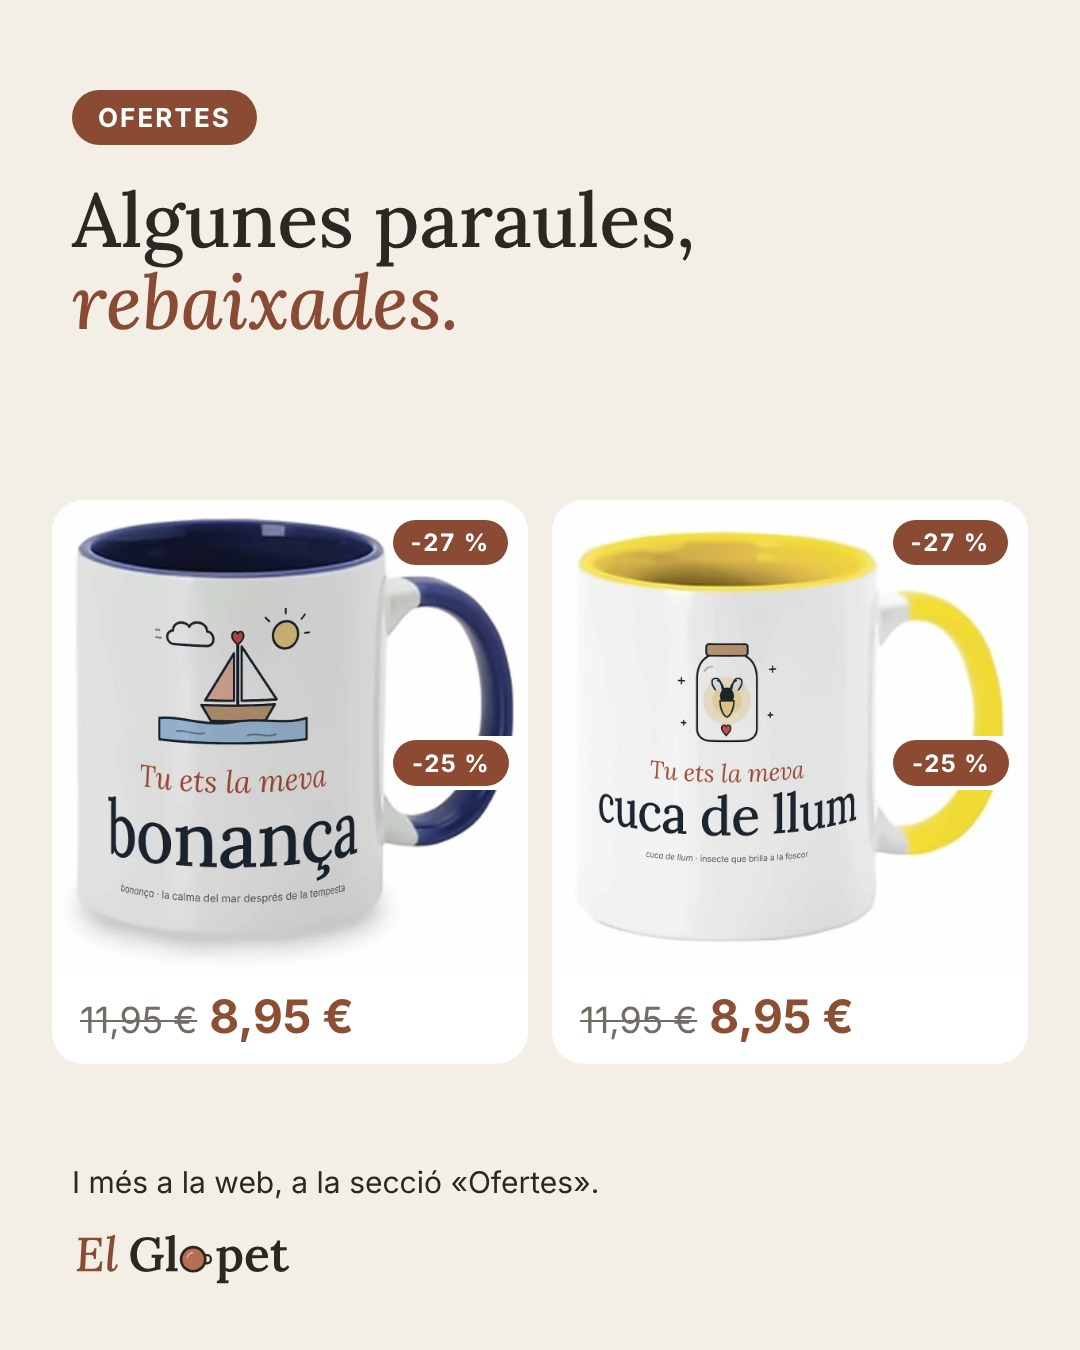
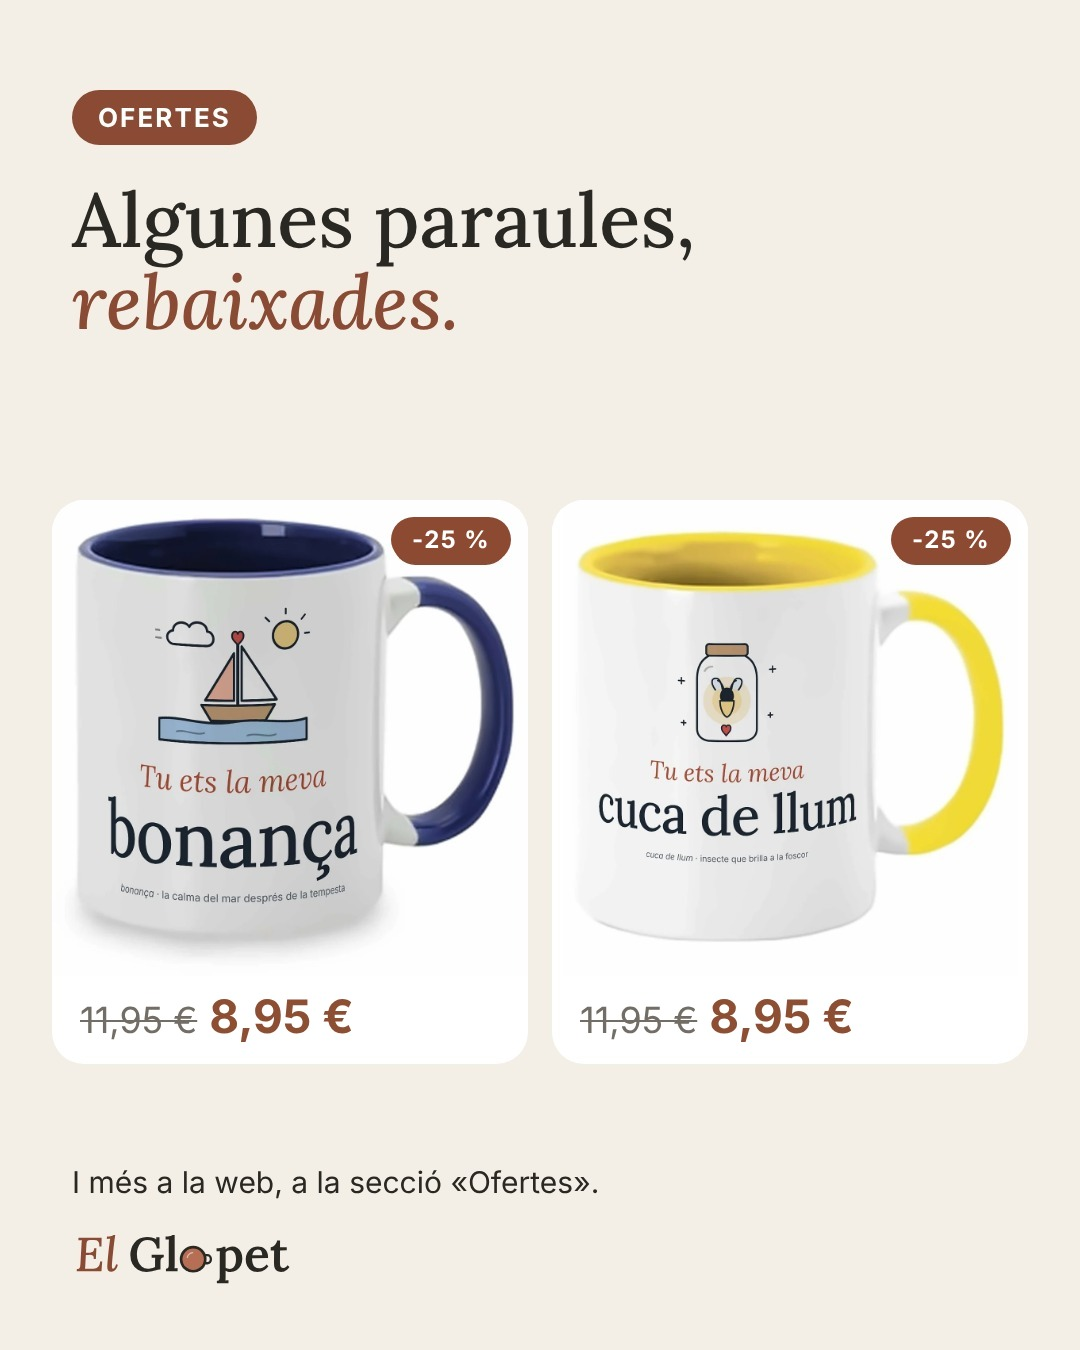
Instagram: revisió de les publicacions previstes
- Imatge d'ofertes refeta des de l'original: el distintiu -25 % substitueix el -27 %
  (abans quedava a sota, damunt de la tassa). Presentació i packs regenerades igual.
- La presentació ja publicada a mà queda sense aprovar (no es tornarà a publicar).
- Textos: crida a demanar per DM, terminis d'enviament als packs i emoticones a
  «Crea la teva».
- Funció: almenys 6 hores entre dues publicacions, perquè després d'una pausa no
  surtin totes seguides.

Claude-Session: https://claude.ai/code/session_018zc9hCmUo3A5sfUJxnQysa

diff --git a/instagram/index.html b/instagram/index.html
@@ -68,12 +68,12 @@
   <div class="ig-help">
     <p><strong>Com funciona.</strong> Res no es publica fins que no ho aproves. Per aprovar una publicació, a <code>data/instagram.json</code> canvia <code>"approved": false</code> per <code>"approved": true</code> (també pots canviar el text, la data o l'ordre de les imatges) i desa el canvi a GitHub.</p>
     <p>Un cop a Netlify hi ha la variable <code>IG_ACCESS_TOKEN</code> (token «IG…» o, amb l'inici de sessió unificat, «EA…»), cada 15 minuts es comprova si hi ha alguna publicació aprovada que toqui i se'n publica una. Si una publicació aprovada fa més de 48 hores que havia de sortir, no es publica: posa-li una data nova.</p>
-    <p>9 de 9 publicacions aprovades.</p>
+    <p>8 de 9 publicacions aprovades.</p>
   </div>
   <article class="ig-post" id="presentacio">
   <header class="ig-post__head">
     <h2>Presentació</h2>
-    <p><time datetime="2026-11-21T08:30:00+01:00">dissabte, 21 de novembre, a les 08:30</time> · <span class="ig-status ig-status--ok">Aprovada · es publicarà sola</span></p>
+    <p><time datetime="2026-11-21T08:30:00+01:00">dissabte, 21 de novembre, a les 08:30</time> · <span class="ig-status">Pendent de revisar</span></p>
   </header>
   <div class="ig-post__imgs">
     <a href="/instagram/posts/01-presentacio-1.jpg" target="_blank" rel="noopener"><img src="/instagram/posts/01-presentacio-1.jpg" alt="Presentació, imatge 1 de 4" width="1080" height="1350" loading="lazy"></a>
@@ -92,7 +92,7 @@ Aixopluc, caliu, cagadubtes, garrepa, bocamoll… 40 paraules, 9 colors i, si no
 Quina paraula catalana posaries en una tassa? 👇
 
 #elglopet #encatalà #paraulescatalanes #regalsencatalà #tasses #tassespersonalitzades #llenguacatalana #regalsoriginals</pre>
-  <p class="ig-post__note"><strong>Nota:</strong> Fixa-la a dalt del perfil un cop publicada.</p>
+  <p class="ig-post__note"><strong>Nota:</strong> Ja publicada a mà el 21/11. No la tornis a aprovar o es publicaria dues vegades.</p>
   <p class="ig-post__id">Identificador: <code>presentacio</code></p>
 </article>
 <article class="ig-post" id="paraula-aixopluc">
@@ -163,7 +163,7 @@ Respon als comentaris. Demà a les stories en fem la solució (i ja t&#39;avance
 
 bocamoll: persona que no sap guardar un secret. O, dit d&#39;una altra manera, qui t&#39;explica la sorpresa abans que arribi l&#39;homenatjat.
 
-Ara té tassa pròpia. En 9 colors, per si de cas.
+Ara té tassa pròpia. En 9 colors, per si de cas. Demana-la per DM 📩
 
 #elglopet #bocamoll #encatalà #paraulescatalanes #humorencatalà #regalsencatalà #amicinvisible</pre>
   
@@ -181,12 +181,12 @@ Ara té tassa pròpia. En 9 colors, per si de cas.
 
 Pack Família: Niu · Arrel · Aixopluc. Per a la gent que t&#39;ha vist créixer i que sempre és casa.
 
-30,90 € les tres tasses (t&#39;estalvies 3,50 €) i l&#39;enviament gratuït.
+30,90 € les tres tasses (t&#39;estalvies 3,50 €) i l&#39;enviament gratuït. Arriba en 3–7 dies feiners.
 
-També hi ha el Pack Parella, el Pack Feina i el Pack Cafè. Els tens tots a l&#39;enllaç de la bio.
+També hi ha el Pack Parella, el Pack Feina i el Pack Cafè. Els tens tots a l&#39;enllaç de la bio, i els pots demanar per DM 📩
 
 #elglopet #regalsdenadal #nadal #regalsencatalà #encatalà #tasses #regalsoriginals #família</pre>
-  <p class="ig-post__note"><strong>Nota:</strong> Comprova els terminis d&#39;enviament abans de publicar-la.</p>
+  <p class="ig-post__note"><strong>Nota:</strong> Demana amb marge per Nadal: l&#39;enviament triga 3–7 dies feiners.</p>
   <p class="ig-post__id">Identificador: <code>packs-nadal</code></p>
 </article>
 <article class="ig-post" id="crea-la-teva">
@@ -199,11 +199,11 @@ També hi ha el Pack Parella, el Pack Feina i el Pack Cafè. Els tens tots a l&#
   </div>
   <pre class="ig-post__caption">No trobes la paraula? Crea-la tu ✍
 
-Tria l&#39;estructura («Tu ets el meu…», «Sóc un…», «Ets un…» o text lliure), la paraula, un dibuix i el color. La veus en directe abans de comprar-la.
+Tria l&#39;estructura («Tu ets el meu…», «Sóc un…», «Ets un…» o text lliure), la paraula, un dibuix (o una emoticona) i el color. La veus en directe abans de demanar-la.
 
 Aquesta l&#39;hem feta per a un dormilega que coneixem bé 😴
 
-11,95 €, enviament gratuït. Enllaç a la bio.
+11,95 €, enviament gratuït. Fes-la a l&#39;enllaç de la bio i envia&#39;ns el disseny per DM 📩
 
 #elglopet #tassapersonalitzada #regalspersonalitzats #encatalà #paraulescatalanes #regalsencatalà #dormilega</pre>
   <p class="ig-post__note"><strong>Nota:</strong> A les stories, grava la pantalla fent una tassa.</p>
@@ -221,7 +221,7 @@ Aquesta l&#39;hem feta per a un dormilega que coneixem bé 😴
 
 Bonança i Cuca de llum, a 8,95 € (abans 11,95 €). I n&#39;hi ha més a la secció «Ofertes» de la web.
 
-Enviament gratuït, com sempre. Enllaç a la bio.
+Enviament gratuït, com sempre. Demana-la per DM 📩 o mira-les a l&#39;enllaç de la bio.
 
 #elglopet #ofertes #regalsdenadal #encatalà #paraulescatalanes #regalsencatalà #tasses</pre>
   <p class="ig-post__note"><strong>Nota:</strong> Publica-la només si les ofertes encara són vigents a la web.</p>

diff --git a/tests/functions.test.js b/tests/functions.test.js
@@ -423,6 +423,13 @@ test('instagram: només publica el que està aprovat i toca, una vegada, i sense
     assert.strictEqual(await body(await handler()), `already ${post3.id}`);
     assert.ok(!calls.slice(before).some((c) => c.url.endsWith('/media_publish')), 'no publica res');
     global.fetch = listFetch;
+    // Si se n'han acumulat, la següent espera 6 hores des de l'última publicació.
+    const post5 = queue.posts[4];
+    const saved5 = { approved: post5.approved, publishAt: post5.publishAt };
+    post5.approved = true;
+    post5.publishAt = new Date(Date.now() - 120 * 1000).toISOString();
+    assert.strictEqual(await body(await handler()), 'waiting gap');
+    Object.assign(post5, saved5);
     // Una publicació que s'havia quedat «publicant» (p. ex. temps esgotat) no es repeteix sola.
     const db0 = fakeStore('instagram');
     const pub = await db0.get('published', { type: 'json' });
@@ -433,7 +440,8 @@ test('instagram: només publica el que està aprovat i toca, una vegada, i sense
     await db0.setJSON('published', { ...pub, [post4.id]: { status: 'publishing', at: new Date().toISOString() } });
     assert.strictEqual(await body(await handler()), 'nothing due');
     // Si Blobs no deixa anotar «publicant», no es publica.
-    await db0.setJSON('published', pub);
+    const old = Object.fromEntries(Object.entries(pub).map(([k, v]) => [k, { ...v, at: '2000-01-01T00:00:00Z' }]));
+    await db0.setJSON('published', old);
     const realSet = db0.setJSON;
     const failingStore = { ...db0, setJSON: async () => { throw new Error('blobs caigut'); } };
     const before2 = calls.length;

diff --git a/netlify/functions/lib/instagram.js b/netlify/functions/lib/instagram.js
@@ -14,7 +14,8 @@ const isFacebookToken = (token) => /^EA/.test(String(token || ''));
 const HOST = (token) => process.env.IG_API_HOST || (isFacebookToken(token) ? 'graph.facebook.com' : 'graph.instagram.com');
 const VERSION = () => process.env.IG_API_VERSION || 'v23.0';
 
-const LATE_LIMIT_MS = 48 * 3600 * 1000;    // més tard que això, no es publica
+const LATE_LIMIT_MS = 48 * 3600 * 1000;
+const MIN_GAP_MS = 6 * 3600 * 1000;      // mínim entre dues publicacions    // més tard que això, no es publica
 const REFRESH_AFTER_MS = 20 * 86400 * 1000; // renova el token cada 20 dies
 
 async function api(path, params, { method = 'POST', token } = {}) {
@@ -136,4 +137,4 @@ function pickDue(posts, published, now = Date.now()) {
   return { due: due[0] || null, late };
 }
 
-module.exports = { publish, findPublished, currentToken, pickDue, whoAmI, envToken, describeToken, LATE_LIMIT_MS };
+module.exports = { MIN_GAP_MS, publish, findPublished, currentToken, pickDue, whoAmI, envToken, describeToken, LATE_LIMIT_MS };
